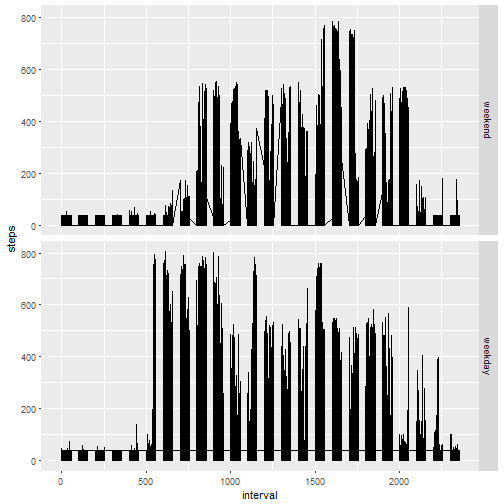
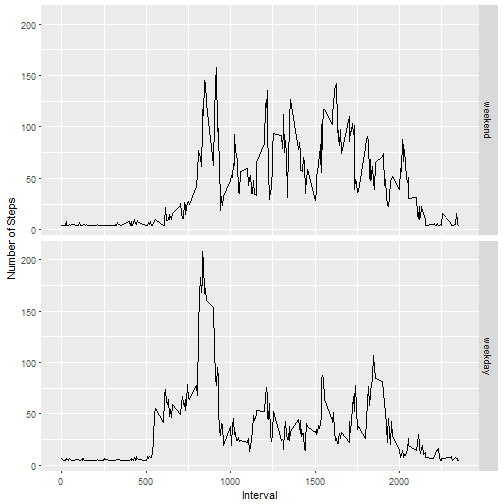
Add .md

diff --git a/PA1_template.md b/PA1_template.md
@@ -19,25 +19,25 @@ activity[,2] <- as.Date(activity[,2], "%Y-%m-%d")
 ### Total number of steps taken perday 
 
 ```r
-sum.steps <- aggregate(x = activity[, 1], by=list(activity[, 2]), FUN=(function(x) sum(x, na.rm = FALSE)))
+sum.steps <- aggregate(steps~date, activity, FUN=sum)
 head(sum.steps)
 ```
 
 ```
-##      Group.1     x
-## 1 2012-10-01    NA
-## 2 2012-10-02   126
-## 3 2012-10-03 11352
-## 4 2012-10-04 12116
-## 5 2012-10-05 13294
-## 6 2012-10-06 15420
+##         date steps
+## 1 2012-10-02   126
+## 2 2012-10-03 11352
+## 3 2012-10-04 12116
+## 4 2012-10-05 13294
+## 5 2012-10-06 15420
+## 6 2012-10-07 11015
 ```
 
 ### Histgram of the total number of steps taken each day
 
 ```r
 #Histgram of the total number of steps taken each day
-hist(sum.steps[, 2],breaks=10, main="Frequency of Step Taken",xlab="Steps taken per day")
+hist(sum.steps$steps,breaks=10, main="Frequency of Step Taken",xlab="Steps taken per day")
 ```
 
 ![plot of chunk histgram](figure/histgram-1.png)
@@ -69,9 +69,9 @@ print(median.sum.steps)
 ### Time Series Plot
 
 ```r
-mean.steps <- aggregate(x = activity[, 1], by=list(activity[, 2]), FUN=(function(x) mean(x, na.rm = FALSE)))
+mean.interval.steps <- aggregate(steps~interval, activity, FUN=function(x) mean(x, na.rm=TRUE))
 
-plot(mean.steps[, 1], mean.steps[,2], type="l", xlab = "Day", ylab = "Steps Taken", main = "Steps Taken Each Day")
+plot(mean.interval.steps[, 1], mean.interval.steps[,2], type="l", xlab = "Interval", ylab = "Number of Steps", main = "Steps Taken Each Day")
 ```
 
 ![plot of chunk timeseries](figure/timeseries-1.png)
@@ -103,14 +103,16 @@ sapply(activity, function(x) sum(is.na(x)))
 ### Fill the missing value with the mean of steps takeneach day
 
 ```r
+#average steps each day
+mean.steps <- aggregate(steps~date, activity, FUN=(function(x) mean(x)), na.action = NULL)
 #Fill the missing value of average steps each day with the mean of the average steps taken each day
-mean.steps[is.na(mean.steps[,2]),][,2] <- mean(mean.steps[,2], na.rm=TRUE)
+mean.steps[is.na(mean.steps$steps),]$steps <- mean(mean.steps$steps, na.rm=TRUE)
 
 #replace the missing value for each interval with the average steps each day.
 clean.activity <- activity 
 for (i in 1:nrow(clean.activity)) {
         if(is.na(clean.activity[i, 1])){
-                clean.activity[i, 1] <- mean.steps[which(mean.steps$Group.1==clean.activity[i, 2]), 2]
+                clean.activity[i, 1] <- mean.steps[which(mean.steps$date==clean.activity[i, 2]), 2]
         }
                 
 }
@@ -173,8 +175,10 @@ clean.activity$weekdays <- factor((weekdays(clean.activity$date) %in% wdays), le
 ###plot 
 
 ```r
-library(ggplot2)
-qplot(interval, steps, data=clean.activity, facets=weekdays~.,geom = "line")
+require(ggplot2)
+mean.clean.interval.steps <- aggregate(steps~interval+weekdays,clean.activity, FUN=(function(x) mean(x)))
+
+qplot(interval, steps, data=mean.clean.interval.steps, facets=weekdays~.,geom = "line", xlab = "Interval", ylab = "Number of Steps")
 ```
 
 ![plot of chunk plot2](figure/plot2-1.png)
